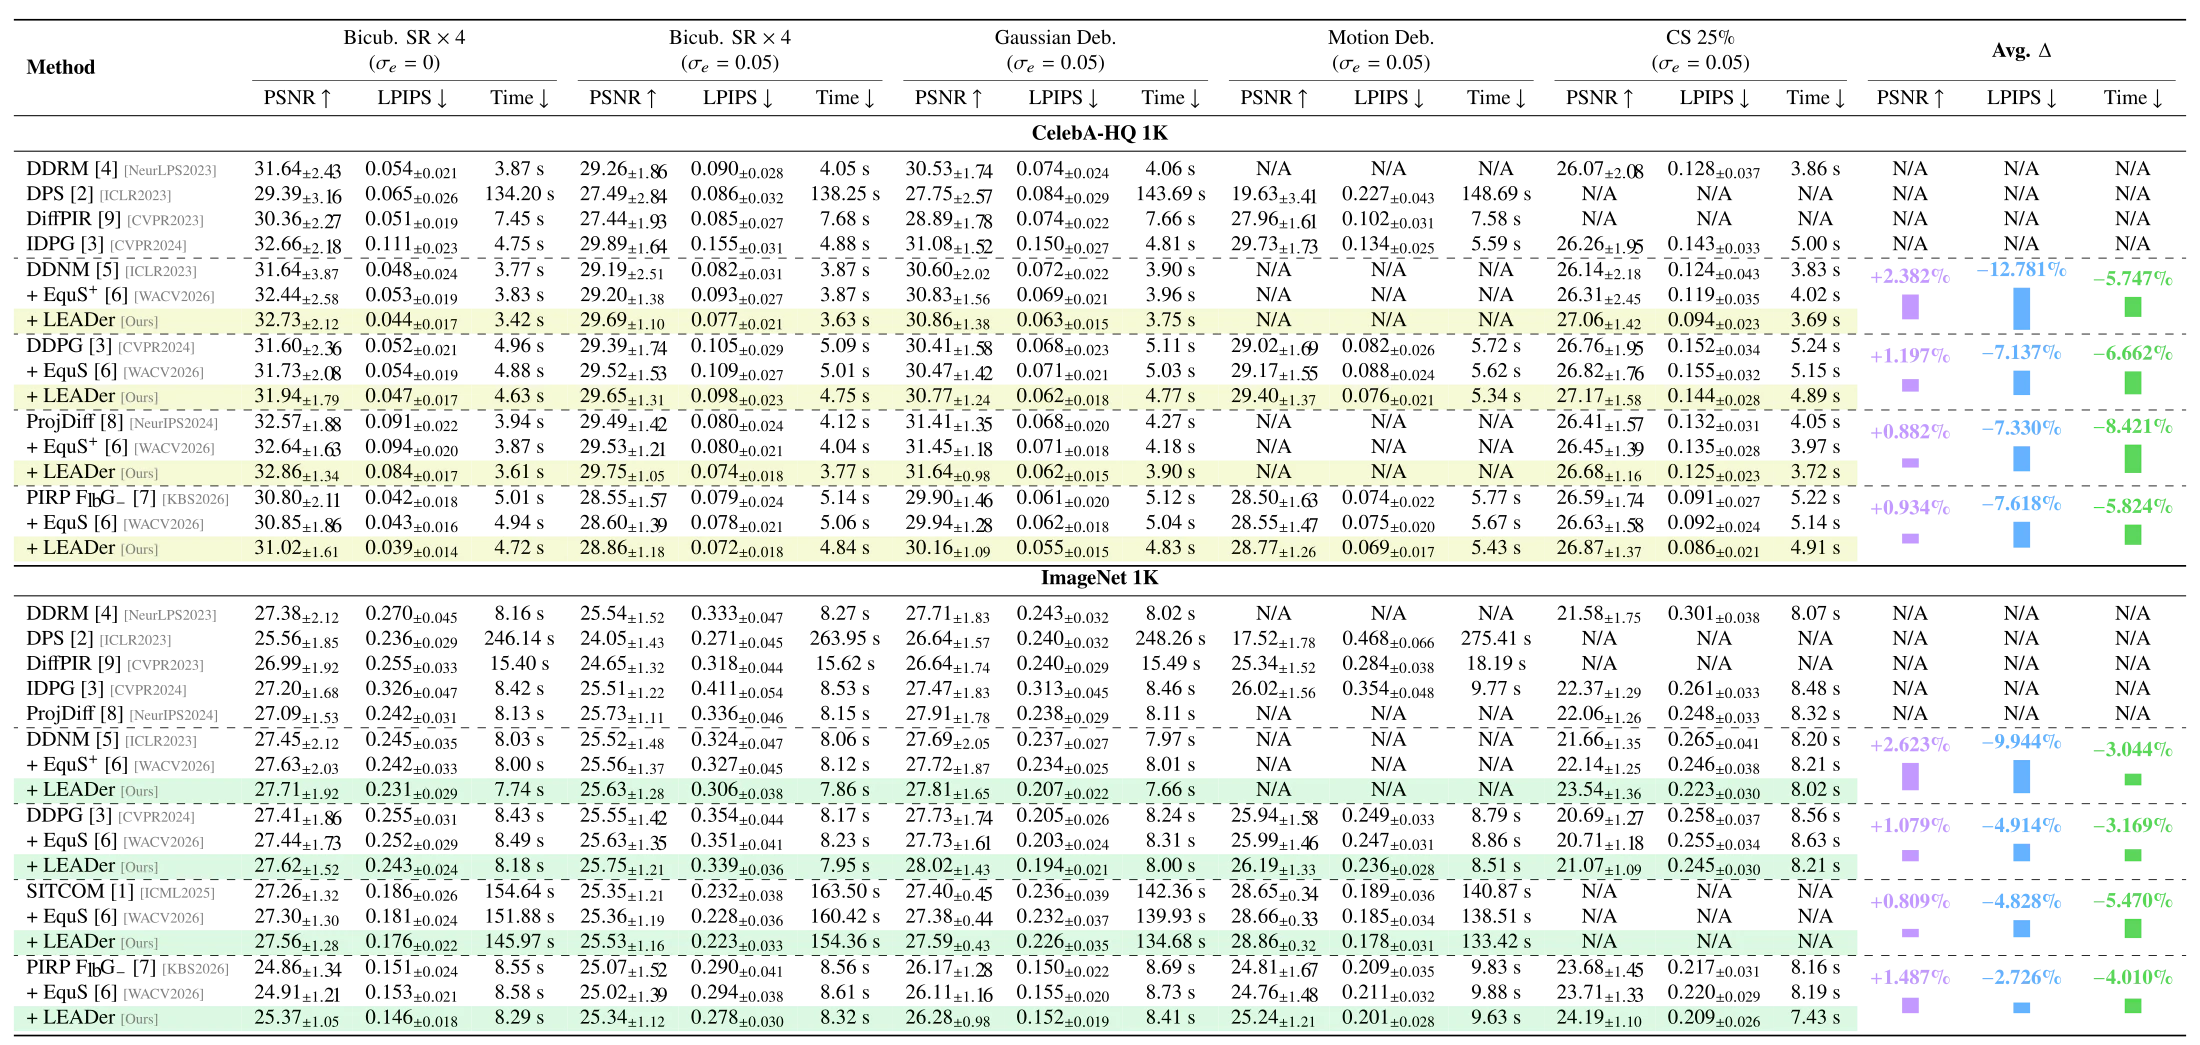
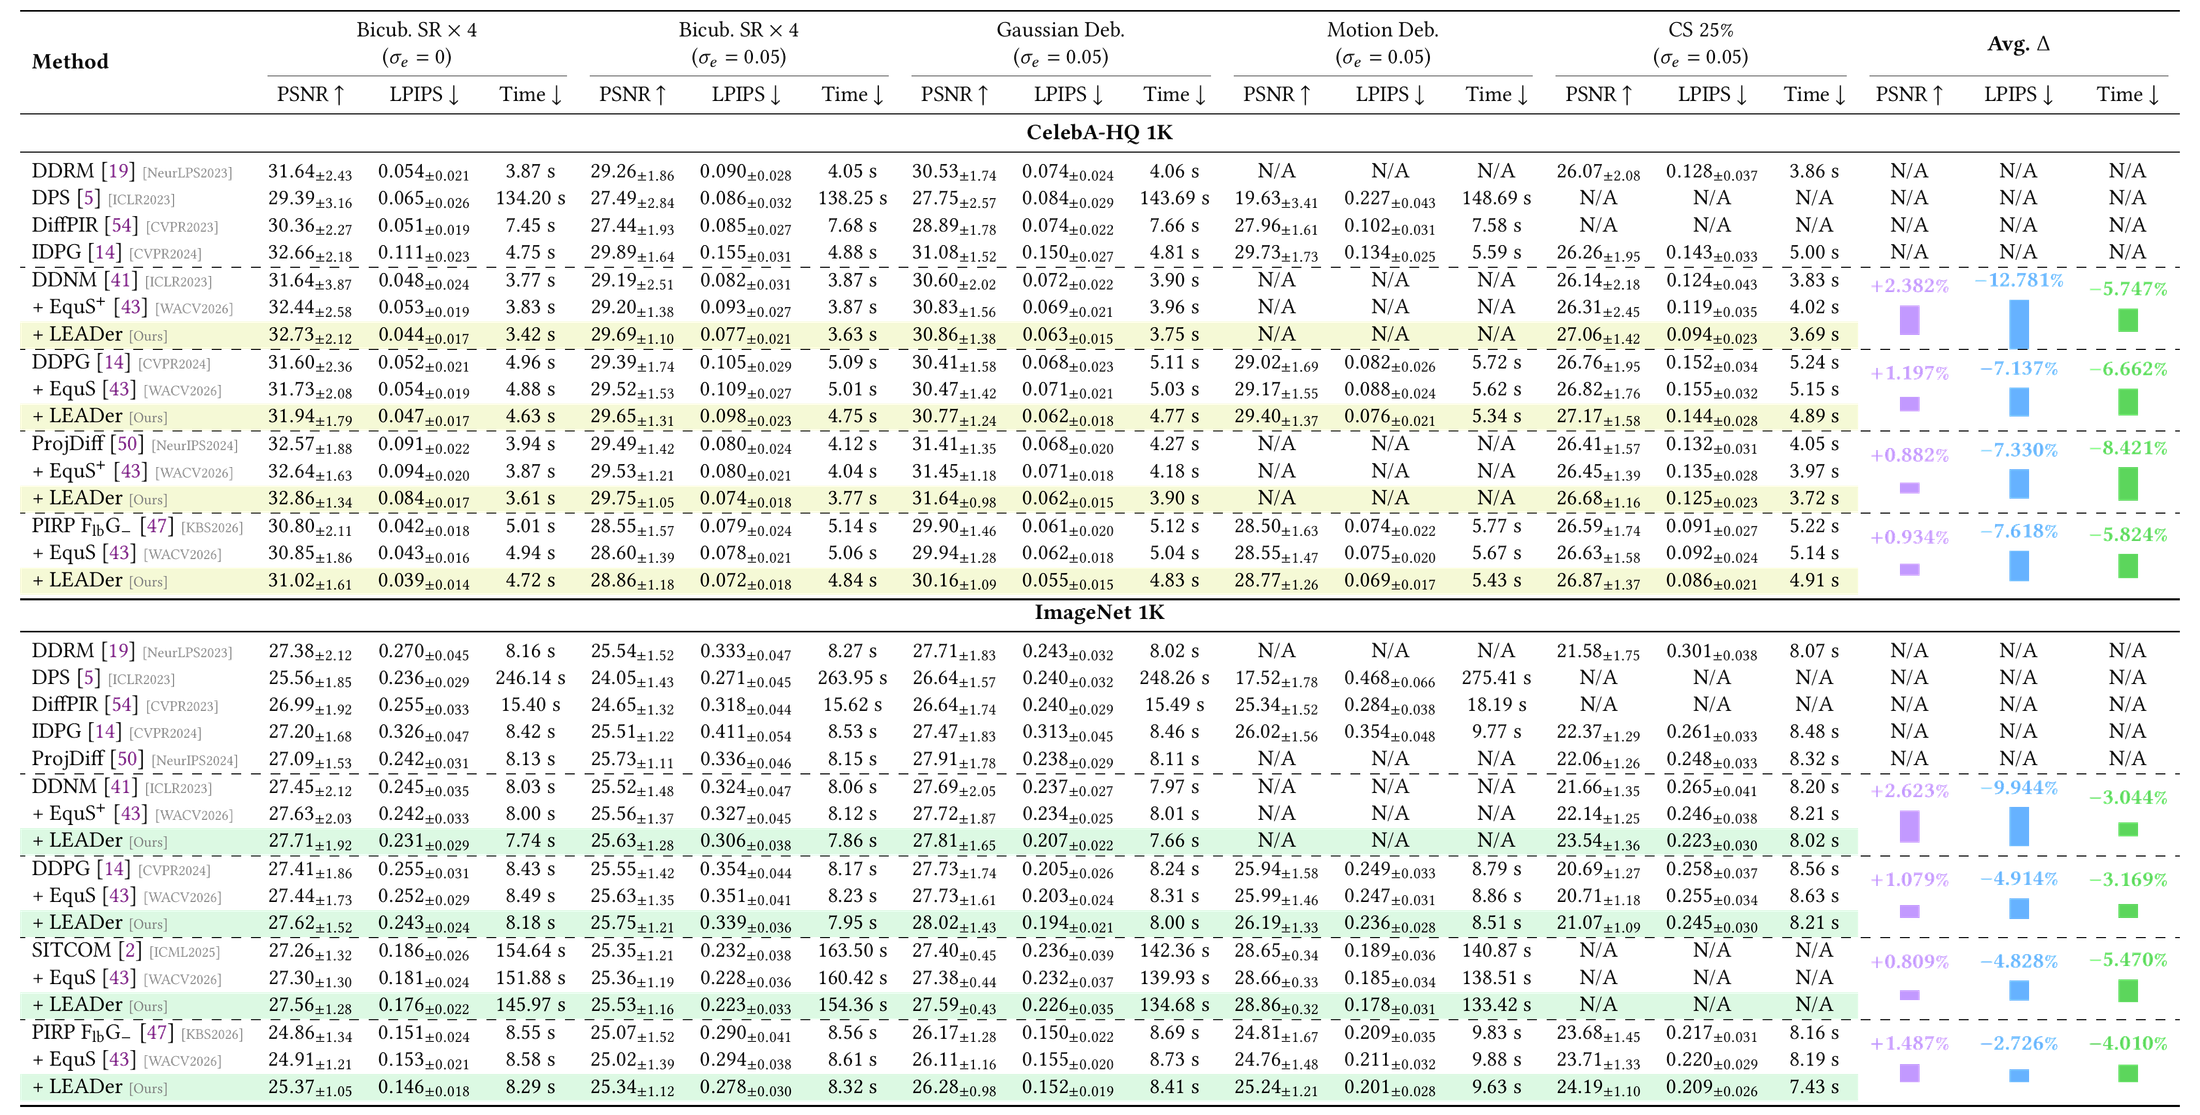
20260707

Changed region(s): [[0.0, 0.0, 0.9891, 1.0]]

diff --git a/Web/LEADer/index.html b/Web/LEADer/index.html
@@ -170,7 +170,7 @@ layout: null
       </figure>
 
       <figure class="table-figure table-wide">
-        <img src="/Web/LEADer/Figures/PaperTable1.webp?v=20260724" alt="Quantitative results across five image restoration tasks on CelebA-HQ 1K and ImageNet 1K." width="2200" height="1045" loading="lazy" decoding="async">
+        <img src="/Web/LEADer/Figures/PaperTable1.webp?v=20261006-table-numeric-fix" alt="Quantitative results across five image restoration tasks on CelebA-HQ 1K and ImageNet 1K." width="2200" height="1115" loading="lazy" decoding="async">
         <figcaption>
           Table 1. Quantitative results for five image restoration tasks on CelebA-HQ 1K (top) and ImageNet 1K
           (bottom). The average change reports performance improvements and time reductions over each baseline.
